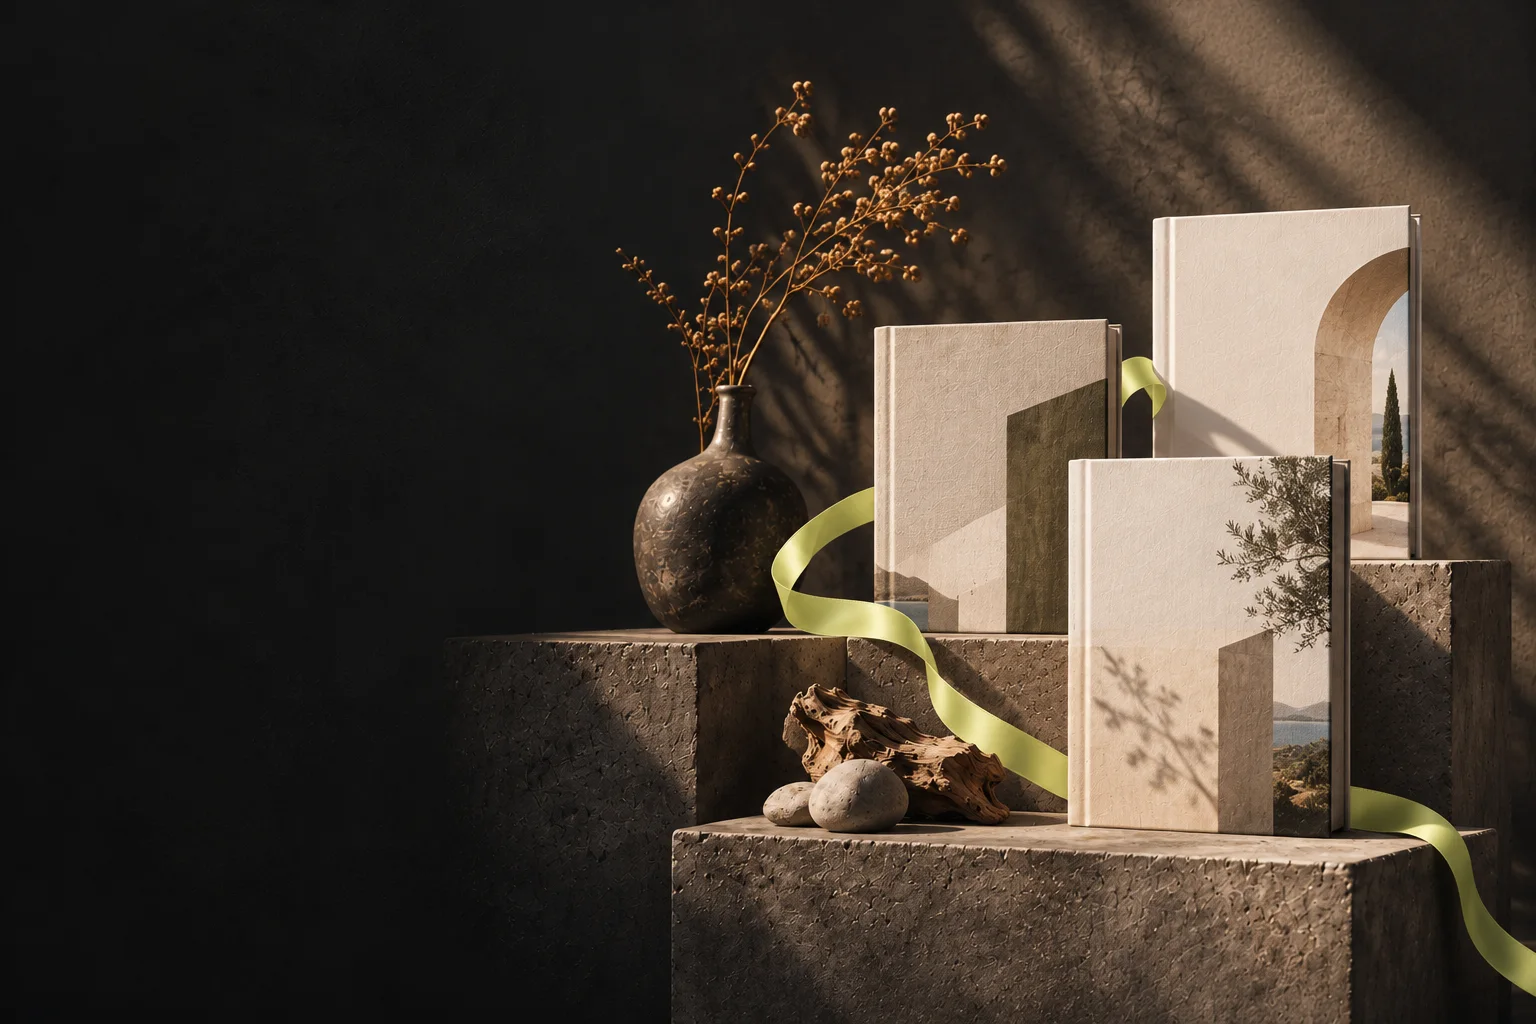
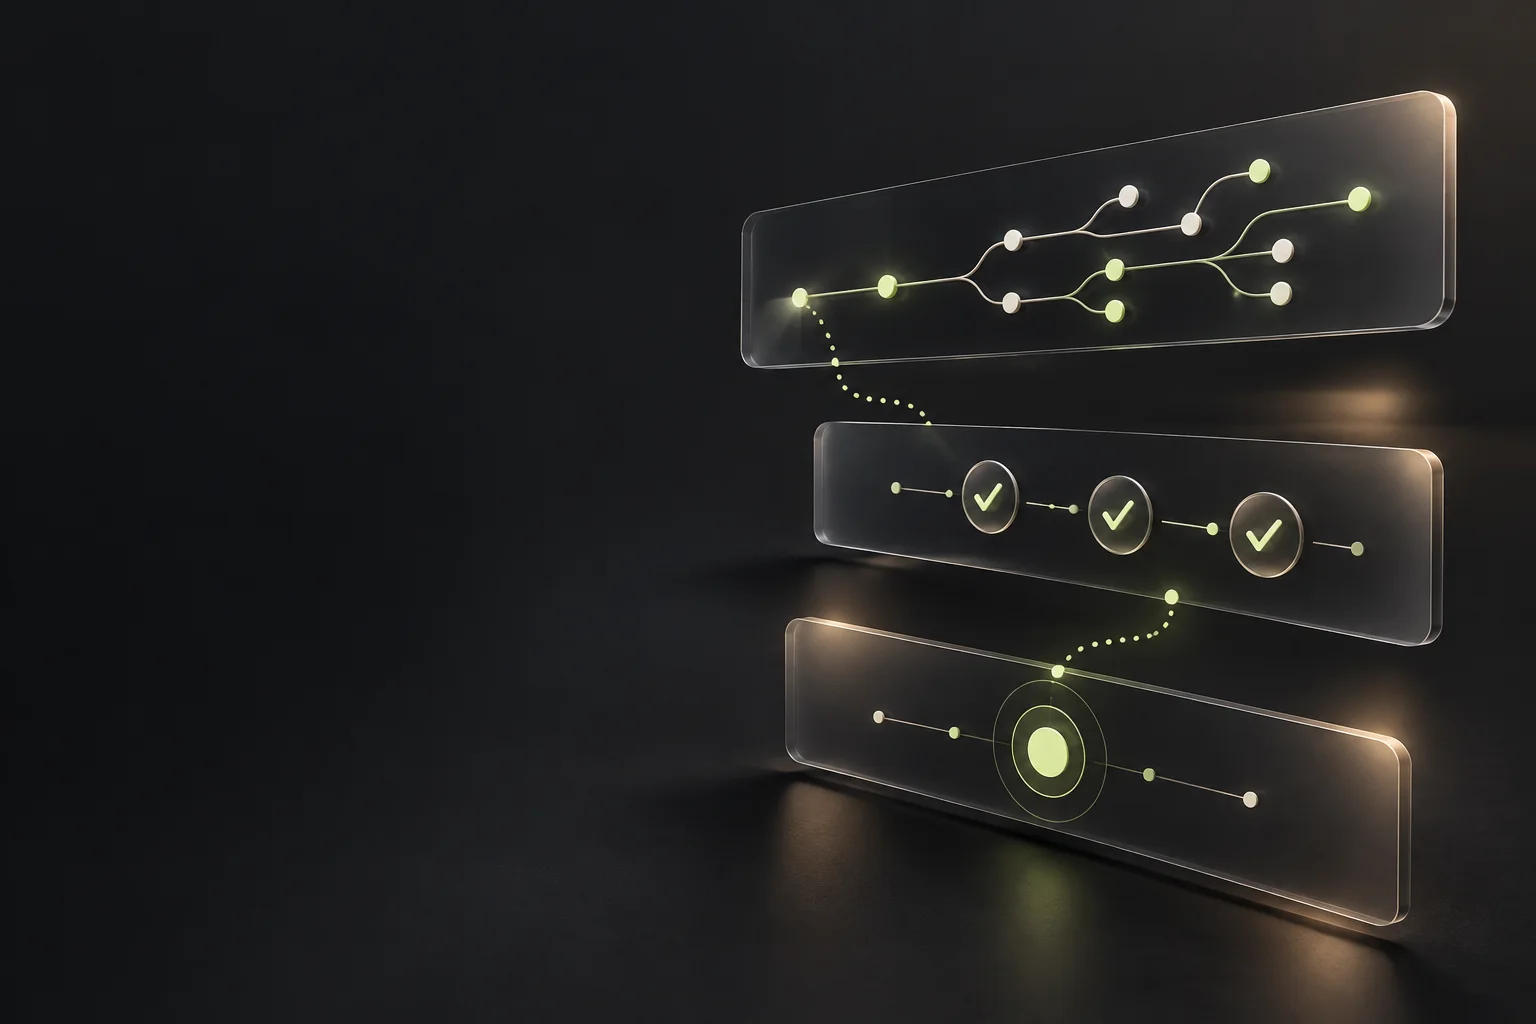
Use Noleji identity and service-specific software imagery

diff --git a/site/index.html b/site/index.html
@@ -1,9 +1,9 @@
 <!doctype html>
 <html lang="ko"><head><meta charset="utf-8"><meta name="viewport" content="width=device-width,initial-scale=1"><title>App Development Harness Core · 공개 코드와 사용 예제</title><meta name="description" content="작은 오픈소스 팀을 위한 개발 도구입니다. 작업 상태와 결정을 남기고, 이어서 할 일과 아직 확인하지 못한 결과를 구분합니다."><link rel="canonical" href="https://noleji-ai.github.io/app-development-harness-core/"><meta property="og:title" content="App Development Harness Core"><meta property="og:description" content="Resume development work and keep verification records inspectable."><meta property="og:type" content="website"><meta property="og:url" content="https://noleji-ai.github.io/app-development-harness-core/"><meta name="referrer" content="strict-origin-when-cross-origin"><meta property="og:image" content="https://noleji-ai.github.io/app-development-harness-core/assets/harness-hero.webp"><link rel="stylesheet" href="style.css"><script src="app.js" defer></script></head>
-<body data-kind="harness"><a class="skip" href="#main">본문으로 이동</a><div class="wrap"><header class="nav"><a class="brand" href="./" aria-label="NOLEJI BOOKS · App Development Harness Core 홈"><span class="wordmark">NOLEJI BOOKS</span><span class="brand-sub">OPEN SOURCE</span></a><nav class="navlinks" aria-label="주요 메뉴"><a href="#try">직접 확인</a><a href="#start">시작하기</a><a href="https://github.com/noleji-ai/app-development-harness-core">GitHub ↗</a><button id="motion" aria-pressed="false">움직임 줄이기</button></nav></header>
-<main id="main"><div class="hero reveal"><div><p class="kicker">App Development Harness Core</p><h1>개발을 이어가고,<br><em>근거를 남기세요.</em></h1><p class="lead">작은 오픈소스 팀을 위한 개발 도구입니다. 작업 상태와 결정을 남기고, 이어서 할 일과 아직 확인하지 못한 결과를 구분합니다.</p><p class="english" lang="en">Resume development work and keep verification records inspectable.</p><div class="actions"><a class="btn primary" href="#try">작동 방식 체험하기 ↓</a><a class="btn" href="https://github.com/noleji-ai/app-development-harness-core">공개 코드 보기 ↗</a></div></div><figure class="art"><img src="assets/harness-hero.webp" width="1536" height="1024" alt="단계별 돌 단과 기록을 상징하는 종이의 정물" fetchpriority="high"><figcaption>NOLEJI BOOKS · 브랜드 연출 이미지</figcaption></figure></div>
+<body data-kind="harness"><a class="skip" href="#main">본문으로 이동</a><div class="wrap"><header class="nav"><a class="brand" href="./" aria-label="noleji · App Development Harness Core 홈"><img class="brandmark" src="assets/noleji-mark.svg" width="36" height="36" alt=""><span class="brand-type"><span class="wordmark">noleji</span><span class="brand-sub">OPEN SOURCE</span></span></a><nav class="navlinks" aria-label="주요 메뉴"><a href="#try">직접 확인</a><a href="#start">시작하기</a><a href="https://github.com/noleji-ai/app-development-harness-core">GitHub ↗</a><button id="motion" aria-pressed="false">움직임 줄이기</button></nav></header>
+<main id="main"><div class="hero reveal"><div><p class="kicker">App Development Harness Core</p><h1>개발을 이어가고,<br><em>근거를 남기세요.</em></h1><p class="lead">작은 오픈소스 팀을 위한 개발 도구입니다. 작업 상태와 결정을 남기고, 이어서 할 일과 아직 확인하지 못한 결과를 구분합니다.</p><p class="english" lang="en">Resume development work and keep verification records inspectable.</p><div class="actions"><a class="btn primary" href="#try">작동 방식 체험하기 ↓</a><a class="btn" href="https://github.com/noleji-ai/app-development-harness-core">공개 코드 보기 ↗</a></div></div><figure class="art"><img src="assets/harness-hero.webp" width="1536" height="1024" alt="연결된 작업 단계와 검사 상태를 표현한 소프트웨어 개념 이미지" fetchpriority="high"><figcaption>작동 원리를 표현한 개념 이미지 · 실제 화면 아님</figcaption></figure></div>
 <div class="strip"><span><strong>MIT</strong> 코드 공개</span><span>가입 없이 소스 확인</span><span>로컬 예제는 모델 호출 없음</span></div>
-<section aria-labelledby="features-title"><div class="editorial"><figure class="editorial-image"><img src="assets/process-detail.webp" width="1536" height="1024" alt="빈 노트와 세 개의 돌 단으로 표현한 단계별 기록" loading="lazy" decoding="async"><figcaption>단계별 기록을 표현한 브랜드 연출 이미지</figcaption></figure><div><div class="sectionhead"><div><p class="kicker">SMALL CORE, CLEAR BOUNDARY</p><h2 id="features-title">이 코드로 확인할 수 있는 것</h2></div><p>필요한 부분을 읽고, 작은 예제로 실행하고, 확인한 결과를 공유할 수 있습니다.</p></div><div class="cards"><article class="card"><span class="number">01</span><h3>작업을 이어가기</h3><p>중단된 작업의 실행 식별자와 상태를 확인하고 다음 작업을 판단합니다.</p></article><article class="card"><span class="number">02</span><h3>결정과 근거를 함께 보기</h3><p>무엇을 선택했는지와 어떤 검사를 실행했는지를 구분해 남깁니다.</p></article><article class="card"><span class="number">03</span><h3>검증하지 않은 결과 구분하기</h3><p>검사 기록이 없는 단계는 완료로 확대하지 않고 남은 일로 표시합니다.</p></article></div></div></div></section>
+<section aria-labelledby="features-title"><div class="editorial"><figure class="editorial-image"><img src="assets/harness-detail.webp" width="1536" height="1024" alt="작업 경로와 체크포인트를 표현한 개념 이미지" loading="lazy" decoding="async"><figcaption>작업 경로와 체크포인트를 표현한 개념 이미지 · 실제 화면 아님</figcaption></figure><div><div class="sectionhead"><div><p class="kicker">SMALL CORE, CLEAR BOUNDARY</p><h2 id="features-title">이 코드로 확인할 수 있는 것</h2></div><p>필요한 부분을 읽고, 작은 예제로 실행하고, 확인한 결과를 공유할 수 있습니다.</p></div><div class="cards"><article class="card"><span class="number">01</span><h3>작업을 이어가기</h3><p>중단된 작업의 실행 식별자와 상태를 확인하고 다음 작업을 판단합니다.</p></article><article class="card"><span class="number">02</span><h3>결정과 근거를 함께 보기</h3><p>무엇을 선택했는지와 어떤 검사를 실행했는지를 구분해 남깁니다.</p></article><article class="card"><span class="number">03</span><h3>검증하지 않은 결과 구분하기</h3><p>검사 기록이 없는 단계는 완료로 확대하지 않고 남은 일로 표시합니다.</p></article></div></div></div></section>
 <section id="try" aria-labelledby="demo-title"><div class="sectionhead"><div><p class="kicker">TRY THE IDEA</p><h2 id="demo-title">중단한 지점에서 다음 단계로</h2></div><p>체크포인트를 진행하며 기록이 어떻게 달라지는지 확인하세요. 설명용 예시이며 실제 개발이나 모델 실행은 하지 않습니다.</p></div><div class="demo"><div class="controls"><span class="example">브라우저 설명용 예시</span><p class="message" id="demo-message" role="status" aria-live="polite"></p><div class="demo-buttons"><button class="primary" data-action="next">다음 체크포인트</button><button data-action="reset">예시 초기화</button></div><p class="small" style="margin-top:20px">이 예시는 이 페이지 안에서만 바뀝니다. 실제 기능은 아래 로컬 예제로 확인하세요.</p><button id="download-example">예시 기록 내려받기 ↓</button><p class="small" id="download-status" role="status"></p><noscript><p>체험에는 JavaScript가 필요합니다. 아래 명령과 공개 소스는 JavaScript 없이도 확인할 수 있습니다.</p></noscript></div><div class="result"><h3>현재 예시 기록</h3><pre id="example-output" aria-label="설명용 상태 기록">JavaScript를 켜면 예시 상태가 표시됩니다.</pre></div></div></section>
 <section id="start" aria-labelledby="start-title"><p class="kicker">RUN IT LOCALLY</p><h2 id="start-title">공개 소스로 직접 확인하기</h2><p>Node.js 22 이상 · 로컬 확인은 macOS / Node.js 26.7.0 기준</p><div class="codebox"><div class="codehead"><strong>새 폴더에서 확인하는 명령</strong><button id="copy-command">명령 복사</button></div><pre id="install-command" tabindex="0">git clone https://github.com/noleji-ai/app-development-harness-core.git
 cd app-development-harness-core
@@ -12,7 +12,7 @@ DEMO_PROJECT=$(mktemp -d)
 node dist/cli.js init --project &quot;$DEMO_PROJECT&quot; --mode create
 node dist/cli.js status --project &quot;$DEMO_PROJECT&quot;
 node dist/cli.js doctor --project &quot;$DEMO_PROJECT&quot;</pre><p id="copy-status" class="small" role="status" style="margin-top:16px"></p></div><p class="small" style="margin-top:20px">실제 run·resume은 Codex와 프로젝트 도구를 실행할 수 있습니다. 계정·저장소 권한·비용 한도를 먼저 확인하세요. 다른 운영체제, 실제 모델 결과와 새 화면 검증은 별도입니다.</p><div class="actions"><a class="btn" href="https://github.com/noleji-ai/app-development-harness-core/archive/refs/heads/main.zip">전체 소스 ZIP 받기 ↓</a><a class="btn" href="https://github.com/noleji-ai/app-development-harness-core#readme">사용 안내 읽기 ↗</a></div></section>
-<section aria-labelledby="evidence-title"><div class="proof"><div><p class="kicker">OBSERVED, NOT ASSUMED</p><h2 id="evidence-title">실제로 실행한 검사</h2><p class="stat">소스 테스트 230개 + 기록 검사기 테스트 12개</p><p class="small">유지보수자 로컬 검사 · 2026-10-28</p></div><div><p>검사 수는 외부 이용자 수나 실제 제품 효과를 뜻하지 않습니다. 명령과 환경, 확인하지 못한 범위는 공개 기록에서 확인할 수 있습니다.</p><a href="https://github.com/noleji-ai/app-development-harness-core/blob/main/docs/verification.md">검사 방법과 한계 보기 ↗</a><p class="small" style="margin-top:20px">독립 사용자·공교육 채택·비용 절감·OpenAI 지원 선정은 아직 확인되지 않았습니다.</p></div></div></section>
+<section aria-labelledby="evidence-title"><div class="proof"><div><p class="kicker">OBSERVED, NOT ASSUMED</p><h2 id="evidence-title">실제로 실행한 검사</h2><p class="stat">소스 테스트 230개 + 기록 검사 12개</p><p class="small">유지보수자 로컬 검사 · 2026-10-28</p></div><div><p>검사 수는 외부 이용자 수나 실제 제품 효과를 뜻하지 않습니다. 명령과 환경, 확인하지 못한 범위는 공개 기록에서 확인할 수 있습니다.</p><a href="https://github.com/noleji-ai/app-development-harness-core/blob/main/docs/verification.md">검사 방법과 한계 보기 ↗</a><p class="small" style="margin-top:20px">독립 사용자·공교육 채택·비용 절감·OpenAI 지원 선정은 아직 확인되지 않았습니다.</p></div></div></section>
 <section aria-labelledby="faq-title"><p class="kicker">BEFORE YOU START</p><h2 id="faq-title">시작 전에 확인할 내용</h2><div class="faq"><details><summary>브라우저에서 앱 개발을 실행하나요?</summary><p>이 페이지는 상태 변화를 설명하는 예시입니다. 실제 도구는 공개 저장소의 소스를 내려받아 로컬에서 실행합니다.</p></details><details><summary>모델 호출 없이 확인할 수 있나요?</summary><p>초기화·상태·진단 예제는 모델을 호출하지 않습니다. 실제 개발 실행의 계정과 비용은 별도로 확인해야 합니다.</p></details><details><summary>다른 개발 도구와 어떻게 다른가요?</summary><p>개발 절차와 실행 기록을 연결하는 작은 코어입니다. 기존 도구를 대체하거나 더 우수하다고 검증한 것은 아닙니다.</p></details><details><summary>무료로 사용할 수 있나요?</summary><p>코드는 MIT로 공개합니다. 직접 사용하는 모델 계정, 제공자 호출 비용과 호스팅은 별도입니다. OpenAI와 독립적으로 운영하며 공식 추천이나 무료 사용량을 보장하지 않습니다.</p></details></div></section>
-<section class="closing-editorial"><figure class="editorial-image"><img src="assets/archive-detail.webp" width="1536" height="1024" alt="보관함과 종이 구분자로 표현한 다시 확인할 수 있는 기록" loading="lazy" decoding="async"><figcaption>기록의 보관을 표현한 브랜드 연출 이미지</figcaption></figure><div><p class="kicker">BUILD IN PUBLIC</p><h2>작은 오류 사례부터 함께 개선하세요.</h2><p>버전·재현 순서·기대 결과·실제 결과를 남겨 주세요. 비밀번호·API 키·고객/학생 자료와 비공개 지침은 제외하세요.</p><div class="actions"><a class="btn primary" href="https://github.com/noleji-ai/app-development-harness-core/issues">오류·개선 제보하기 ↗</a><a class="btn" href="https://github.com/noleji-ai/app-development-harness-core/blob/main/MAINTENANCE.md">유지보수 방향 보기 ↗</a></div></div></section></main>
-<footer><span class="wordmark">NOLEJI BOOKS</span><p class="small">App Development Harness Core · 독립 오픈소스 프로젝트</p><div class="footlinks"><a href="https://github.com/noleji-ai/app-development-harness-core/blob/main/LICENSE">MIT 라이선스</a><a href="https://github.com/noleji-ai/app-development-harness-core/blob/main/SECURITY.md">보안 제보 안내</a><a href="https://github.com/noleji-ai/app-development-harness-core#readme" lang="en">English documentation</a><a href="https://noleji-ai.github.io/noleji-setup-core/">다른 공개 도구 보기</a></div><p class="footer-note">유지보수 계정: <a href="https://github.com/noleji-ai">noleji-ai</a> · 독립 오픈소스 프로젝트. 이 페이지는 로그인·결제·추적 도구를 사용하지 않습니다. GitHub Pages의 호스팅과 GitHub로 이동한 뒤의 정보 처리는 해당 제공자 정책을 따릅니다.</p><details><summary>페이지의 정보 처리 확인</summary><p class="small">체험 데이터는 메모리에만 있으며 페이지를 새로 열면 초기화됩니다. 이 페이지의 코드에는 분석 전송·쿠키·브라우저 저장소 쓰기가 없습니다. <a href="https://docs.github.com/en/site-policy/privacy-policies/github-general-privacy-statement">GitHub 개인정보 안내</a></p></details></footer></div></body></html>
+<section class="closing-editorial"><figure class="editorial-image"><img src="assets/harness-record.webp" width="1536" height="1024" alt="다시 확인할 수 있는 검사 기록을 표현한 개념 이미지" loading="lazy" decoding="async"><figcaption>다시 확인할 수 있는 검사 기록을 표현한 개념 이미지 · 실제 화면 아님</figcaption></figure><div><p class="kicker">BUILD IN PUBLIC</p><h2>작은 오류 사례부터 함께 개선하세요.</h2><p>버전·재현 순서·기대 결과·실제 결과를 남겨 주세요. 비밀번호·API 키·고객/학생 자료와 비공개 지침은 제외하세요.</p><div class="actions"><a class="btn primary" href="https://github.com/noleji-ai/app-development-harness-core/issues">오류·개선 제보하기 ↗</a><a class="btn" href="https://github.com/noleji-ai/app-development-harness-core/blob/main/MAINTENANCE.md">유지보수 방향 보기 ↗</a></div></div></section></main>
+<footer><span class="wordmark">noleji</span><p class="small">App Development Harness Core · 독립 오픈소스 프로젝트</p><div class="footlinks"><a href="https://github.com/noleji-ai/app-development-harness-core/blob/main/LICENSE">MIT 라이선스</a><a href="https://github.com/noleji-ai/app-development-harness-core/blob/main/SECURITY.md">보안 제보 안내</a><a href="https://github.com/noleji-ai/app-development-harness-core#readme" lang="en">English documentation</a><a href="https://noleji-ai.github.io/noleji-setup-core/">다른 공개 도구 보기</a></div><p class="footer-note">유지보수 계정: <a href="https://github.com/noleji-ai">noleji-ai</a> · 독립 오픈소스 프로젝트. 이 페이지는 로그인·결제·추적 도구를 사용하지 않습니다. GitHub Pages의 호스팅과 GitHub로 이동한 뒤의 정보 처리는 해당 제공자 정책을 따릅니다.</p><details><summary>페이지의 정보 처리 확인</summary><p class="small">체험 데이터는 메모리에만 있으며 페이지를 새로 열면 초기화됩니다. 이 페이지의 코드에는 분석 전송·쿠키·브라우저 저장소 쓰기가 없습니다. <a href="https://docs.github.com/en/site-policy/privacy-policies/github-general-privacy-statement">GitHub 개인정보 안내</a></p></details></footer></div></body></html>

diff --git a/site/style.css b/site/style.css
@@ -8,7 +8,7 @@ body[data-kind="setup"]{--bg:#17191c;--panel:#1e2125;--ink:#f5f5ef;--muted:#bbbc
 body{background:var(--bg);color:var(--ink);font-family:-apple-system,BlinkMacSystemFont,"Apple SD Gothic Neo","Noto Sans KR",sans-serif;line-height:1.75}
 .wrap{max-width:1440px;padding:0 var(--space)}
 .nav{min-height:96px;border:0;position:relative;z-index:2;padding-block:20px}
-.brand{display:flex;flex-direction:column;align-items:flex-start;gap:0;text-decoration:none}
+.brand{display:flex;flex-direction:row;align-items:center;gap:10px;text-decoration:none}.brand-type{display:flex;flex-direction:column}.brandmark{width:36px;height:36px;border:1px solid var(--line);border-radius:9px;flex:none}
 .wordmark{font-size:24px;font-weight:750;letter-spacing:.08em;white-space:nowrap;line-height:1.5}
 .brand-sub{color:var(--muted);font-size:10px;letter-spacing:.24em;line-height:1.8}
 .navlinks{gap:24px;font-size:14px}.navlinks button{font-size:13px}
@@ -32,7 +32,7 @@ h2{font-size:clamp(28px,3.1vw,42px);line-height:1.35;letter-spacing:-.035em}h3{l
 .kicker{font-size:12px;letter-spacing:.14em;color:var(--accent)}
 .editorial{display:grid;grid-template-columns:1fr 1fr;align-items:center;gap:64px}
 .editorial .sectionhead{display:block;margin:0 0 16px}.editorial .sectionhead p{max-width:none}
-.editorial-image{margin:0;min-width:0}.editorial-image img{display:block;width:100%;height:auto;aspect-ratio:4/5;object-fit:cover;border-radius:2px}.editorial-image figcaption{font-size:12px;color:var(--muted);margin-top:12px}
+.editorial-image{margin:0;min-width:0}.editorial-image img{display:block;width:100%;height:auto;aspect-ratio:6/5;object-fit:cover;border-radius:2px}.editorial-image figcaption{font-size:12px;color:var(--muted);margin-top:12px}
 .cards{display:block}.card{padding:20px 0;border:0;border-top:1px solid var(--line);border-radius:0;background:none;box-shadow:none}.card h3{margin:4px 0 8px;font-size:21px}.card p{margin:0;font-size:15px}.number{font-size:12px;color:var(--accent)}
 .demo{background:var(--panel);border-color:var(--line);border-radius:4px}.controls,.result{padding:36px}.example{color:var(--accent);background:#d4ec8010;border-color:#d4ec8033}.result{background:#121416}.message{font-size:20px}pre{color:#d4ec80;font-size:14px;line-height:1.8}
 .codebox{background:#121416;border-color:var(--line);border-radius:4px;padding:32px}.codehead{border-color:var(--line)}
